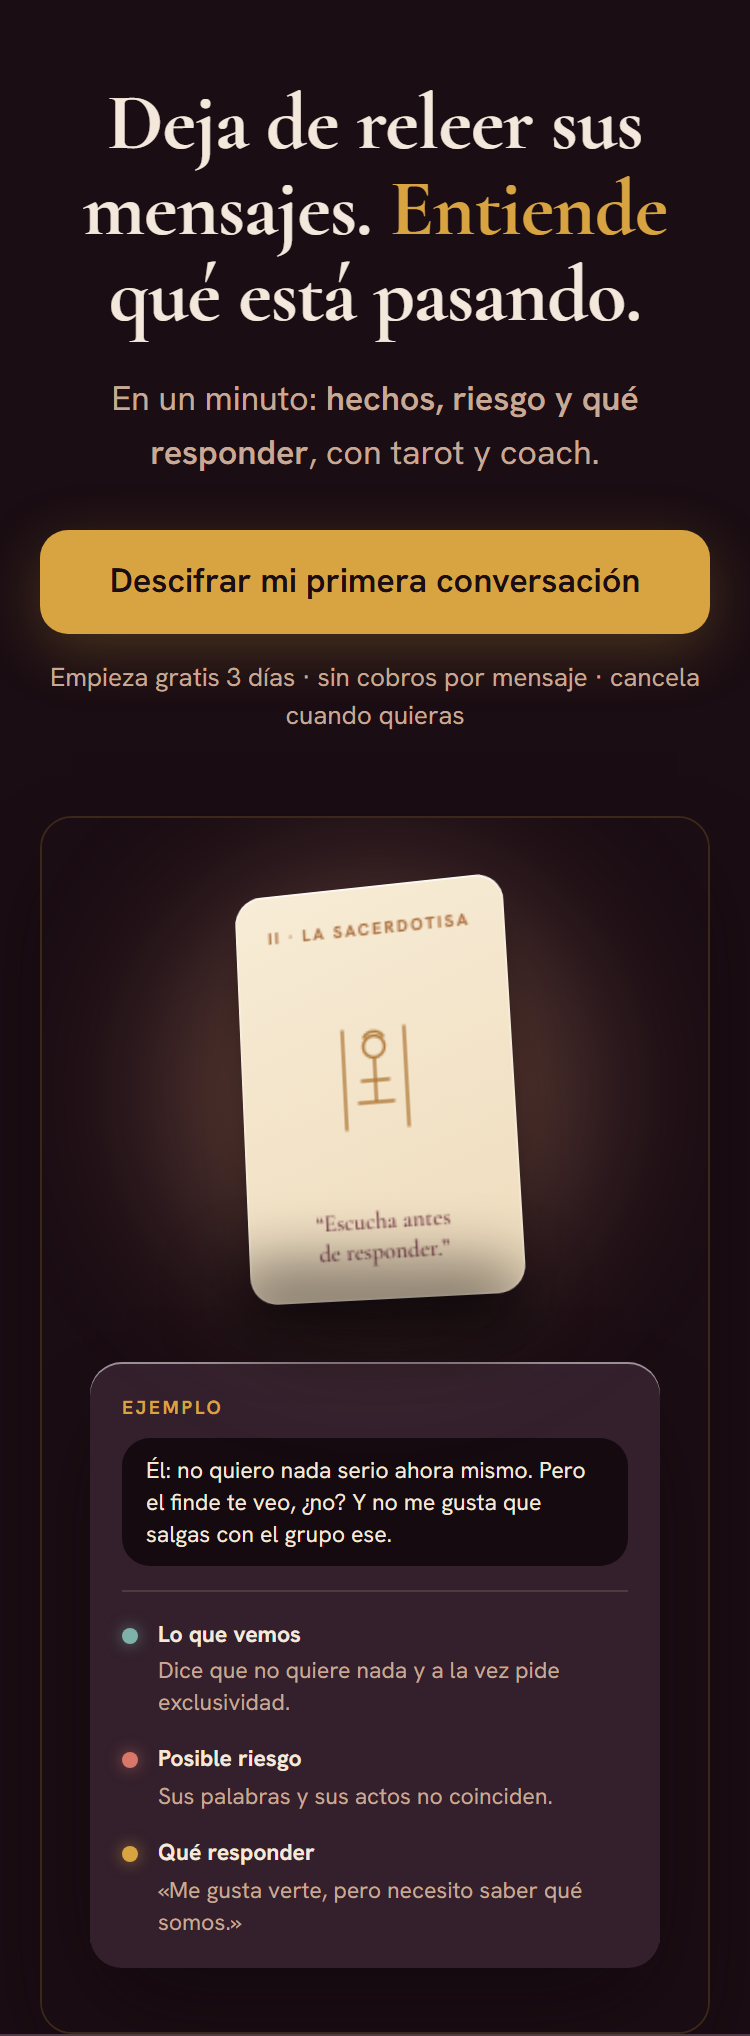
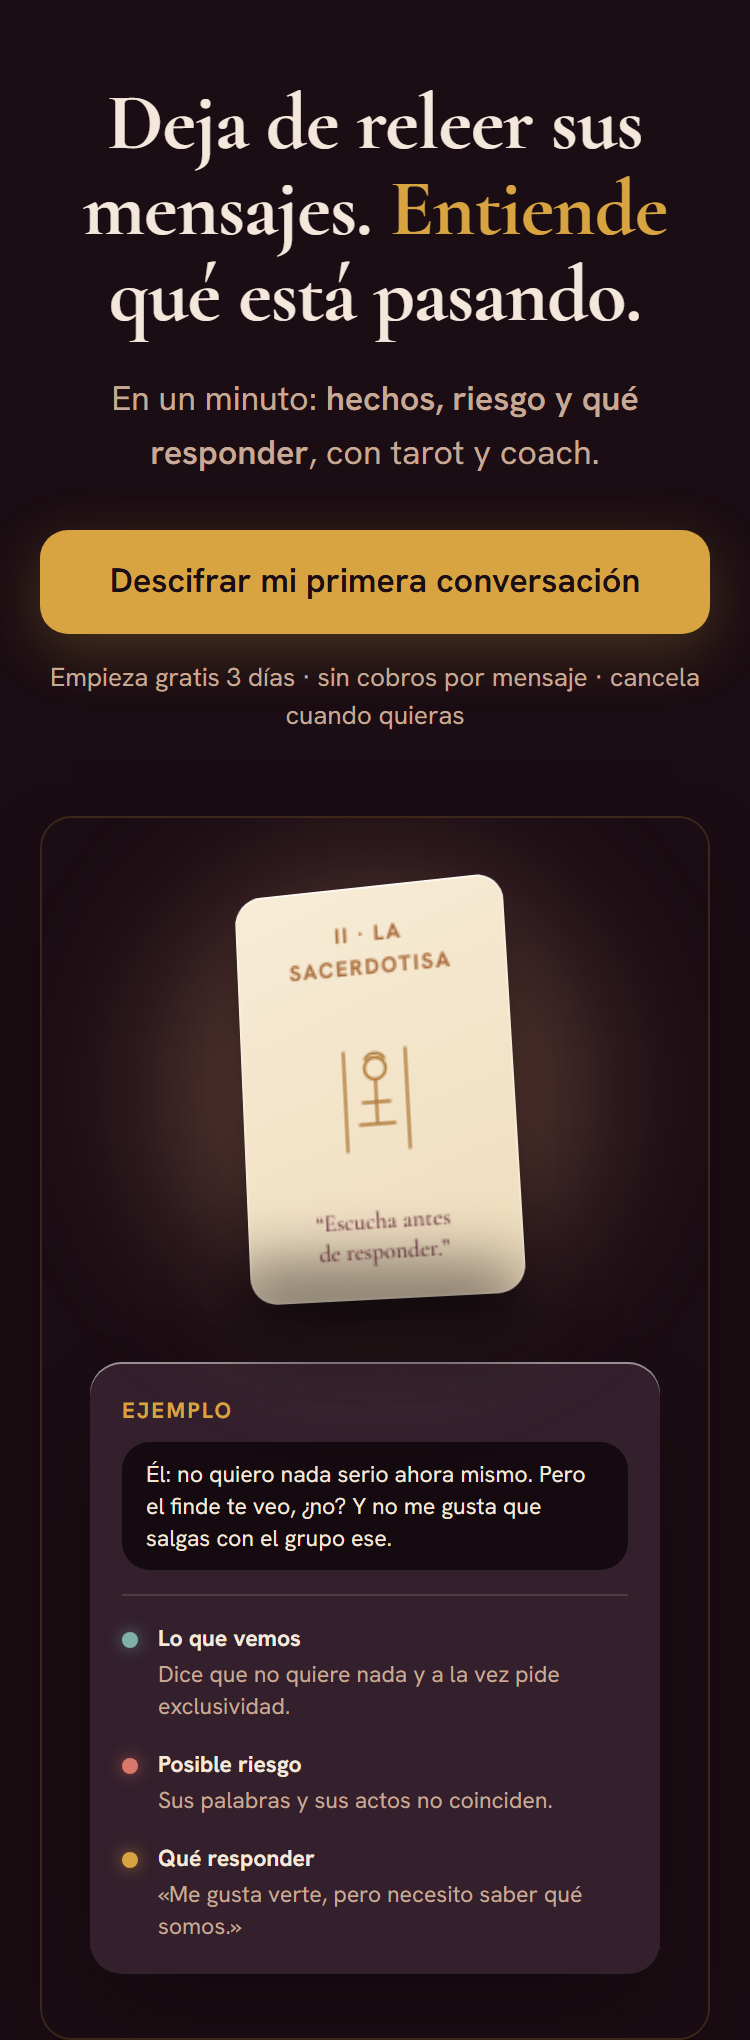
fix(sesion-3): landing — corrige defectos de la 7a revision del revisor-visual
- Header: el link del logo "LUMA" tenia ~24px de alto tactil (min-h-11 =
  44px, mismo estandar ya aplicado a "Entrar")
- HeroDemoLuma: texto de la carta de tarot (8.5px) y del rotulo "EJEMPLO"
  (9.5px) subidos a 11px, el piso de labels/captions del sistema
- StickyCtaMobile: anima el cambio de alto entre sus dos estados (layout
  de motion) para que la transicion sea un movimiento suave, no un salto

diff --git a/components/app/HeroDemoLuma.tsx b/components/app/HeroDemoLuma.tsx
@@ -40,7 +40,7 @@ export function CartaSacerdotisa({ animar = true }: { animar?: boolean }) {
             '0 30px 44px -14px rgb(10 5 8 / 0.6), 0 12px 18px -8px rgb(10 5 8 / 0.45), inset 0 1px 0 rgb(255 255 255 / 0.55), inset 0 0 0 1px rgb(255 255 255 / 0.28)',
         }}
       >
-        <span className="text-[8.5px] font-bold uppercase tracking-[0.16em]" style={{ color: 'var(--card-label)' }}>
+        <span className="text-[11px] font-bold uppercase tracking-[0.1em]" style={{ color: 'var(--card-label)' }}>
           II · La Sacerdotisa
         </span>
         <svg width="46" height="60" viewBox="0 0 46 60" fill="none" stroke="var(--card-line)" strokeWidth="1.4" strokeLinecap="round" aria-hidden="true">
@@ -93,7 +93,7 @@ export function TarjetaEjemplo({
       className="w-full max-w-[21rem] rounded-[var(--radius-card)] p-4 text-left"
       style={{ background: 'var(--surface)', boxShadow: 'var(--shadow-card)' }}
     >
-      <p className="text-[9.5px] font-bold uppercase tracking-[0.14em] text-[var(--accent)]">{rotulo}</p>
+      <p className="text-[11px] font-bold uppercase tracking-[0.1em] text-[var(--accent)]">{rotulo}</p>
       <p className="mt-2 rounded-[var(--radius-button)] bg-[var(--surface-2)] px-3 py-2 text-[11.5px] leading-snug text-[var(--text-primary)]">
         {mensaje}
       </p>

diff --git a/components/landing/Hero.tsx b/components/landing/Hero.tsx
@@ -49,7 +49,7 @@ export function SiteHeader({
   return (
     <div className="mx-auto w-full max-w-[1140px] px-5">
       <header className="flex h-16 items-center justify-between">
-        <a href="/" className="flex items-center gap-2 text-[16px] font-semibold text-[var(--text-primary)]">
+        <a href="/" className="flex min-h-11 items-center gap-2 text-[16px] font-semibold text-[var(--text-primary)]">
           {logo ?? <span aria-hidden="true" className="size-6 rounded-[8px] bg-[var(--accent)]" />}
           {appName}
         </a>

diff --git a/components/landing/ui.tsx b/components/landing/ui.tsx
@@ -236,6 +236,7 @@ export function StickyCtaMobile({
     <AnimatePresence>
       {visible && (
         <motion.div
+          layout={!reduce}
           initial={{ y: reduce ? 0 : 88, opacity: reduce ? 0 : 1 }}
           animate={{ y: 0, opacity: 1 }}
           exit={{ y: reduce ? 0 : 88, opacity: 0 }}

diff --git a/docs/revisiones/landing-veredicto.md b/docs/revisiones/landing-veredicto.md
@@ -1,24 +1,23 @@
 # VEREDICTO revisor-visual — landing
 Fecha: 2026-09-11 00:00
 Screenshot: docs/revisiones/landing-375.png
-Usabilidad: 35/40
+Usabilidad: 32/40
 Craft: 18/20
 Copy (si vende): 19/20
 Fidelidad (si hubo referencia): N-A
 Veredicto: NO LISTA
 Top defectos:
-1. [Prueba social / testimonios — toda la página] Sigue sin ningún testimonio real ni cifra verificable de una usuaria (5ª ronda igual). CasosLuma se etiqueta honestamente "Ejemplos ilustrativos del mecanismo", lo cual evita engañar, pero no sustituye prueba real: la página entera no tiene un solo dato de un humano real, solo demo + garantía. La propia FICHA-AVATAR.md lo reconoce como pendiente ("Conseguir 5-10 testers del avatar antes de Sesión 3", cierre PENDIENTE). Fix: levantar 5-10 conversaciones reales (archivo 44) y agregar un bloque de cita/testimonio verificable antes de la Oferta.
-2. [Accesibilidad de teclado — app/layout.tsx / components/landing/Hero.tsx SiteHeader] No existe un enlace "Saltar al contenido" antes del header; un usuario de teclado/lector de pantalla tiene que tabular por la marca y "Entrar" en cada carga antes de llegar al contenido. Fix: agregar `<a href="#hero" class="sr-only focus:not-sr-only ...">Saltar al contenido</a>` como primer foco del `<body>`.
-3. [Header, link "Entrar" — components/landing/Hero.tsx líneas 56-63] Área táctil ≈40-41px (`py-3` + texto 14px), por debajo del mínimo de 44px de alto que exige el resto del sistema (todos los demás CTA/botones del kit son ≥44px). Fix: subir a `min-h-11` (44px) o `py-3.5`.
-4. [Barra sticky mobile — components/landing/ui.tsx StickyCtaMobile] Una vez aparece (tras salir el hero) no tiene forma de cerrarse/descartarse manualmente; queda fija hasta que el usuario haga scroll a Oferta o al CTA final. Fix: agregar un control de cierre pequeño que la oculte el resto de la sesión (o guardar el dismiss en el estado local).
-5. [Todos los CTA + login — app/page.tsx CTA_HREF, SiteHeader loginHref] Los enlaces "Descifrar mi primera conversación" y "Entrar" apuntan a `/onboarding` y `/entrar`; ninguna de las dos rutas existe todavía en `app/` (confirmado con glob: solo existen page.tsx, privacidad, terminos, cookies, reembolsos, aviso-ia) → hoy CUALQUIER clic en un CTA de la landing cae en 404. Es esperable en esta fase de la SECUENCIA MAESTRA (onboarding es el siguiente paso) y no bloquea "landing lista", pero debe quedar anotado como pendiente crítico antes de dar tráfico real.
+1. [Header, esquina superior izquierda, link "LUMA" — components/landing/Hero.tsx SiteHeader L52-55] Área táctil real de ~24px de alto (`flex items-center gap-2` sin min-height ni padding vertical; el contenido es un cuadrado de 24px + texto de 16px). Muy por debajo de los 44px que el resto del kit exige — incluido "Entrar", corregido esta misma ronda a `min-h-11`, pero el barrido no incluyó el link del logo/home. Fix: agregar `min-h-11 items-center` (o py-2.5) al `<a href="/">`.
+2. [Toda la página — sección "Cómo se ve en la práctica" y en general] Sigue sin ningún testimonio, cifra de uso o validación externa real (defecto abierto desde rondas previas, reconocido y no tocado esta ronda a propósito). Las 3 tarjetas de "Casos" están honestamente rotuladas "(Ejemplos ilustrativos del mecanismo.)", lo cual evita engañar, pero esa aclaración vive en texto gris de 15px fácil de saltarse mientras las 3 tarjetas SÍ parecen capturas de conversaciones reales. Fix: subir peso visual del disclaimer y, en cuanto existan, incorporar 2-3 testimonios reales con nombre/rol antes de escalar tráfico pagado.
+3. [Tarjeta de tarot flotante del hero y de Casos — components/app/HeroDemoLuma.tsx L43 y L96] Texto en 8.5px ("II · La Sacerdotisa") y 9.5px ("EJEMPLO"), por debajo del piso de 11px que el propio sistema define para labels/captions (regla UX #5 del CLAUDE.md). Se repite 2 veces (hero) y 3 veces más (Casos) — no es un caso aislado. Fix: subir ambos a mínimo 11px.
+4. [Barra fija inferior (StickyCtaMobile), visible solo con scroll real — components/landing/ui.tsx L254-260] Tras el fix de esta ronda (`min-h-[52px]` en vez de alto fijo) el CTA pasa de "Ver plan y precios" (corta, 1 línea, ~52px) a "Descifrar mi primera conversación" (larga, ahora 2 líneas, ~57-60px) al cruzar la oferta — la altura de la barra salta de golpe en vez de mantenerse estable. No es visible en un screenshot full-page (solo aparece con scroll), verificado por código. Fix: usar también una versión corta en el estado comercial (p. ej. "Empezar gratis") para que la barra quede siempre en 1 línea.
+5. [Todos los CTA + login — app/page.tsx CTA_HREF=/onboarding, SiteHeader loginHref=/entrar] Ninguna de las dos rutas existe todavía en `app/` — hoy cualquier clic cae en 404. Esperable en esta etapa de la SECUENCIA MAESTRA (onboarding es el siguiente paso) y no bloquea el gate de "landing lista", pero debe seguir anotado como pendiente crítico antes de dar tráfico real.
 
-Verificación de los 4 defectos de la ronda anterior (35/40 → NO LISTA):
-- #1 focus-visible: RESUELTO. Confirmado en código: CtaButton (ui.tsx L170), ambos controles de StickyCtaMobile (L249, L256), BackToTop (L302), el CTA outline "Mensual" de Oferta.tsx (L192) y el `<button>` del acordeón de Faq.tsx (L74) llevan `focus-visible:outline-none focus-visible:ring-2 focus-visible:ring-[var(--accent)]` (o el ring-offset equivalente). Ya no es un defecto de consistencia (H4).
-- #2 prueba social: SIGUE ABIERTO — ver defecto #1 de esta ronda.
-- #3 landmark del header: RESUELTO. `SiteHeader` ahora se exporta por separado de `Hero` (components/landing/Hero.tsx L43-67) y en app/page.tsx (L29-30) es hermano directo de `<main>`, ya no anidado en `<section id="hero">`. El `<header>` recupera el rol de landmark "banner". El fondo con blooms vive a nivel `body` (app/globals.css L29-36, fijo/no-scroll), así que no hay salto visual entre el header y el hero pese al cambio estructural — verificado visualmente en el screenshot.
-- #4 desfase de precio: RESUELTO. `sufijo: '/mes aprox.'` (app/page.tsx L108) convierte el "$6,00" en una equivalencia derivada en vez de una afirmación matemática exacta; ya no contradice el "$71,99/año" de al lado.
+Verificación de los 3 defectos marcados como corregidos esta ronda (6ª ronda: 35/40 → NO LISTA):
+- #2 (skip link ausente): RESUELTO. `<a href="#contenido">Saltar al contenido</a>` es el primer elemento del body (app/page.tsx L29-34), oculto con `-translate-y-16` y visible con `focus:translate-y-0`; `<main id="contenido">` existe como destino (L36). Confirmado en código.
+- #3 ("Entrar" con tap target ~40px): RESUELTO para ese link puntual — ahora `min-h-11` (components/landing/Hero.tsx L59). Pero el barrido no alcanzó al link vecino "LUMA" del mismo header (ver defecto #1 de esta ronda): la inconsistencia de tap-target dentro del MISMO componente header sigue viva, solo se movió de un link a otro.
+- #4 (sticky bar no cerrable): RESUELTO. Botón "Cerrar esta barra" de 44px (`size-11`) con `setDescartada(true)` persistente por sesión (components/landing/ui.tsx L261-269). El cambio de alto fijo a `min-h-[52px]` para acomodar el texto de 2 líneas es razonable en el código, pero introduce el defecto #4 de esta ronda (salto de altura al cambiar de etiqueta) — no verificable en el screenshot full-page, solo por código.
 
-Craft — detalle: jerarquía:4 profundidad:4 identidad:4 movimiento:3 encaje:3. Sin desvíos frente a FICHA-ARTE.md (paleta #1a0d13/#33202c/#d8a441, radios 16/14, Cormorant Garamond + Hanken Grotesk verificados en tokens.css y layout.tsx). No coincide con ninguno de los ejemplos canónicos vetados (papel+tinta verde / pizarra+latón).
-Copy — detalle: idea:4 especificidad:3 emoción:4 oferta:4 acción:4. Especificidad capada por la misma ausencia de prueba real (defecto #1). Garantía nombrada ("la Garantía de Calma de 7 Días") con plazo, cerca del CTA de compra — check binario OK.
-Gate: Usabilidad 35/40 (< 36) → no cumple el gate doble aunque Craft (18/20) y Copy (19/20) sí lo cumplen individualmente.
+Craft — detalle: jerarquía:4 profundidad:4 identidad:4 movimiento:3 encaje:3. Sin desvíos frente a FICHA-ARTE.md (paleta vino/cacao #1a0d13 + oro #d8a441, radios 14-16, Cormorant Garamond + Hanken Grotesk visibles en el screenshot). No coincide con los ejemplos canónicos vetados (papel+tinta verde / pizarra+latón) — pasa el test anti-clon.
+Copy — detalle: idea:4 especificidad:3 emoción:4 oferta:4 acción:4. Especificidad capada por la ausencia de prueba real (defecto #2). Garantía nombrada ("la Garantía de Calma de 7 Días") con plazo, cerca del CTA de compra — check binario OK. Mecanismo "descifrar" bautizado y repetido en hero/solución/CTA — Big Idea única y consistente.
+Gate: Usabilidad 32/40 (< 36) → no cumple el gate doble aunque Craft (18/20) y Copy (19/20) sí cumplen sus umbrales individuales. Los 3 defectos de la ronda anterior se corrigieron de forma correcta y verificable en código, pero esta revisión (con contexto limpio) encontró 2 defectos nuevos de la misma familia (tap-target y legibilidad de texto) que el barrido anterior no cubrió, más el salto de altura introducido por el propio fix de la barra sticky — el gate de usabilidad sigue sin cerrarse.
